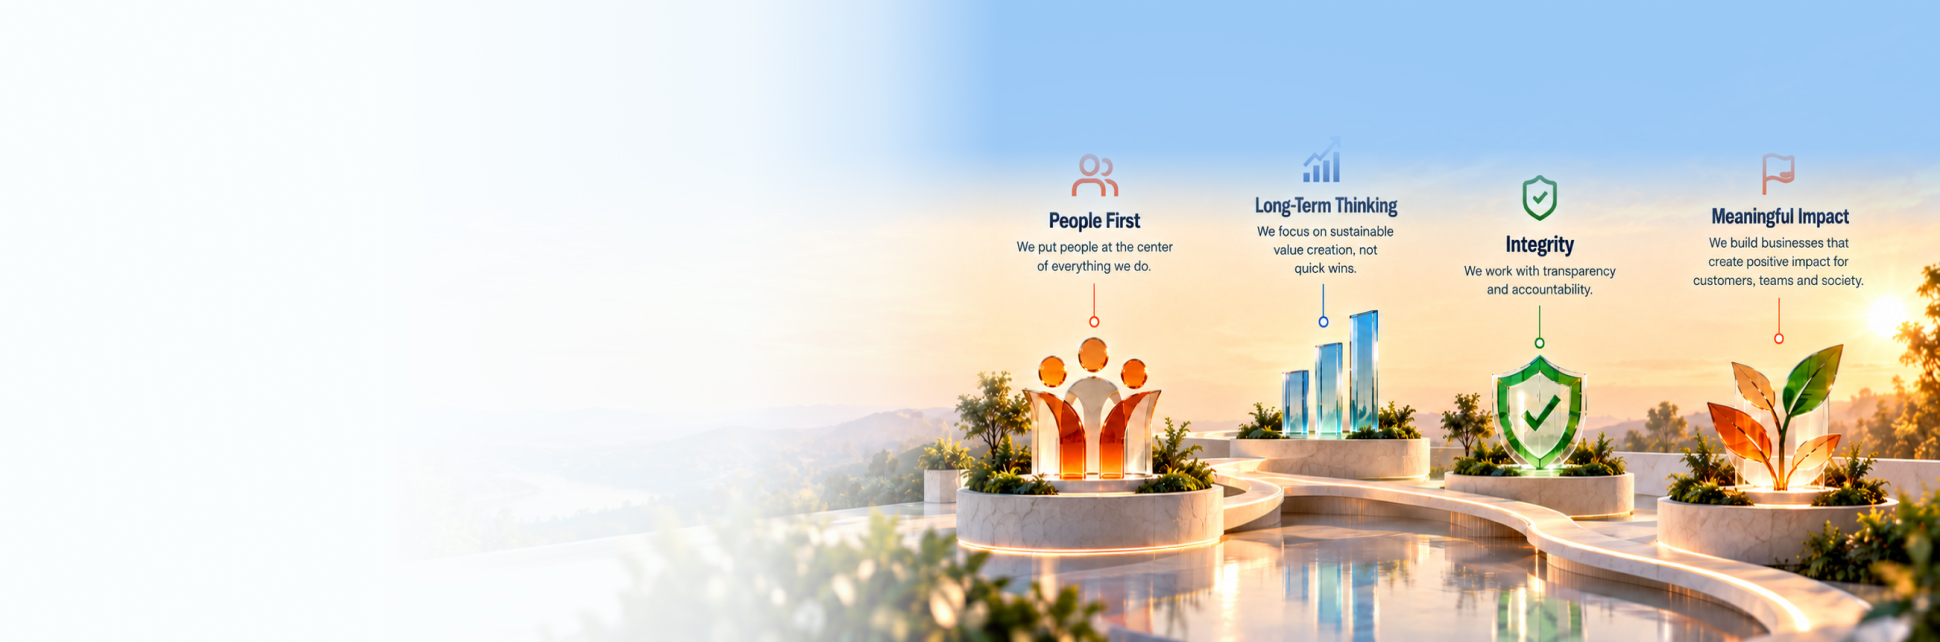
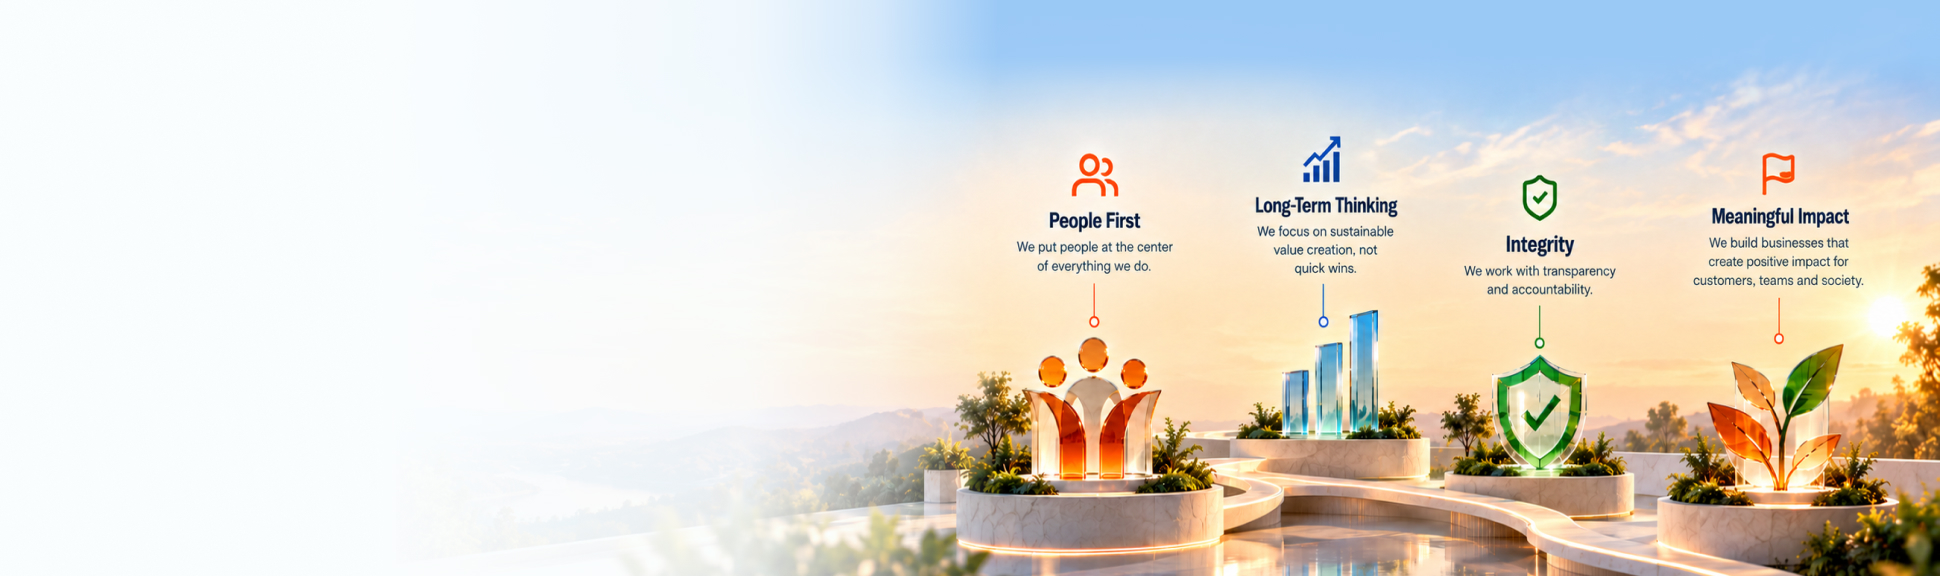
Update About hero desktop assets

diff --git a/css/about.css b/css/about.css
@@ -4,15 +4,15 @@
   --tint: 250 253 254;
   --hero-pt: 118px;
   --hero-copy: 512px;
-  --fade-x: linear-gradient(90deg, rgb(250 253 254) 0%, rgb(250 253 254 / 0.98) 19.4%, rgb(250 253 254 / 0.8) 31.4%, rgb(250 253 254 / 0.6) 39.9%, rgb(250 253 254 / 0) 47.6%);
-  --fade-y: linear-gradient(180deg, rgb(155 201 246) 0%, rgb(155 201 246 / 0.9) 17.9%, rgb(155 201 246 / 0.38) 24.4%, rgb(155 201 246 / 0) 30.7%);
+  /* --fade-x: linear-gradient(90deg, rgb(250 253 254) 0%, rgb(250 253 254 / 0.98) 19.4%, rgb(250 253 254 / 0.8) 31.4%, rgb(250 253 254 / 0.6) 39.9%, rgb(250 253 254 / 0) 47.6%);
+  --fade-y: linear-gradient(180deg, rgb(155 201 246) 0%, rgb(155 201 246 / 0.9) 17.9%, rgb(155 201 246 / 0.38) 24.4%, rgb(155 201 246 / 0) 30.7%); */
 }
 @media (min-width: 769px) {
   .ab-hero { height: 540px !important; min-height: 500px !important; }
 }
-@media (max-width: 768px) {
+/* @media (max-width: 768px) {
   .ab-hero { --tint: 237 247 253; --fade-m: linear-gradient(180deg, rgb(237 247 253) 0%, rgb(237 247 253) 39%, rgb(237 247 253 / 0.75) 52.9%, rgb(237 247 253 / 0) 60.7%); }
-}
+} */
 
 .ab-ic48 { display: block; width: 48px; height: 48px; }
 
